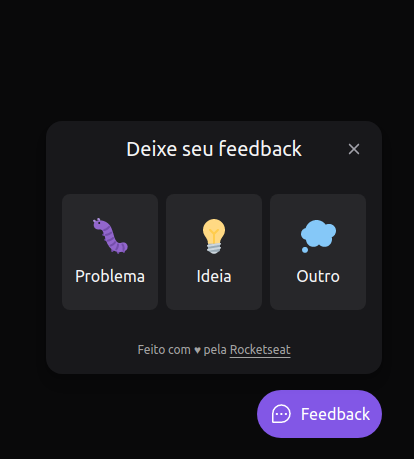
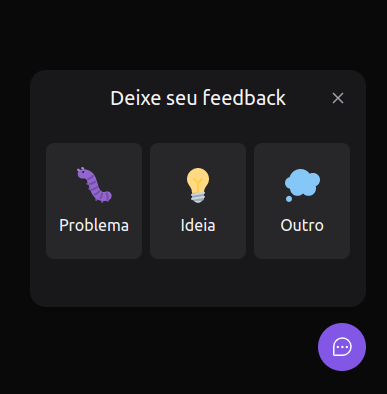
update readme

diff --git a/src/components/WidgetForm/WidgetForm.tsx b/src/components/WidgetForm/WidgetForm.tsx
@@ -1,51 +1,49 @@
-import { useState } from "react"
+import { useState } from "react";
 
-import bugImgUrl from '../assets/images/bug.svg'
-import ideaImgUrl from '../assets/images/idea.svg'
-import thoughtImgUrl from '../assets/images/thought.svg'
-import FeedbackTypeStep from "./Steps/FeedbackTypeStep"
-import FeedbackContentStep from "./Steps/FeedbackContentStep"
-import FeedbackSuccessStep from "./Steps/FeedbackSuccessStep"
+import bugImgUrl from "../assets/images/bug.svg";
+import ideaImgUrl from "../assets/images/idea.svg";
+import thoughtImgUrl from "../assets/images/thought.svg";
+import FeedbackTypeStep from "./Steps/FeedbackTypeStep";
+import FeedbackContentStep from "./Steps/FeedbackContentStep";
+import FeedbackSuccessStep from "./Steps/FeedbackSuccessStep";
 
 export const feedbackTypes = {
   bug: {
-    title: 'Problema',
+    title: "Problema",
     image: {
       source: bugImgUrl,
-      alt: 'Imagem de um inseto'
-    }
+      alt: "Imagem de um inseto",
+    },
   },
   idea: {
-    title: 'Ideia',
+    title: "Ideia",
     image: {
       source: ideaImgUrl,
-      alt: 'Imagem de uma lâmpada'
-    }
+      alt: "Imagem de uma lâmpada",
+    },
   },
   other: {
-    title: 'Outro',
+    title: "Outro",
     image: {
       source: thoughtImgUrl,
-      alt: 'Imagem de uma nuvem de pensamento'
-    }
-  }
-}
+      alt: "Imagem de uma nuvem de pensamento",
+    },
+  },
+};
 
-export type FeedbackTypes = keyof typeof feedbackTypes
+export type FeedbackTypes = keyof typeof feedbackTypes;
 
 const WidgetForm = () => {
-  const [feedbackType, setFeedbackType] = useState<FeedbackTypes | null>(null)
-  const [feedbackSent, setFeedbackSent] = useState<boolean>(false)
+  const [feedbackType, setFeedbackType] = useState<FeedbackTypes | null>(null);
+  const [feedbackSent, setFeedbackSent] = useState<boolean>(false);
 
   const handleRestartFeedback = () => {
-    setFeedbackSent(false)
-    setFeedbackType(null)
-  }
+    setFeedbackSent(false);
+    setFeedbackType(null);
+  };
 
   return (
-    <div
-      className="bg-zinc-900 p-4 relative rounded-2xl mb-4 flex flex-col items-center shadow-lg w-[calc(100vw-2rem)] md:w-auto"
-    >
+    <div className="bg-zinc-900 p-4 relative rounded-2xl mb-4 flex flex-col items-center shadow-lg w-[calc(100vw-2rem)] md:w-auto">
       {feedbackSent ? (
         <FeedbackSuccessStep onFeedbackRestartReq={handleRestartFeedback} />
       ) : (
@@ -61,15 +59,8 @@ const WidgetForm = () => {
           )}
         </>
       )}
-
-      <footer className="text-xs text-neutral-400">
-        Feito com ♥ pela{' '}
-        <a className="underline underline-offset-2" href="https://rocketseat.com.br">
-          Rocketseat
-        </a>
-      </footer>
     </div>
-  )
-}
+  );
+};
 
-export default WidgetForm
+export default WidgetForm;
